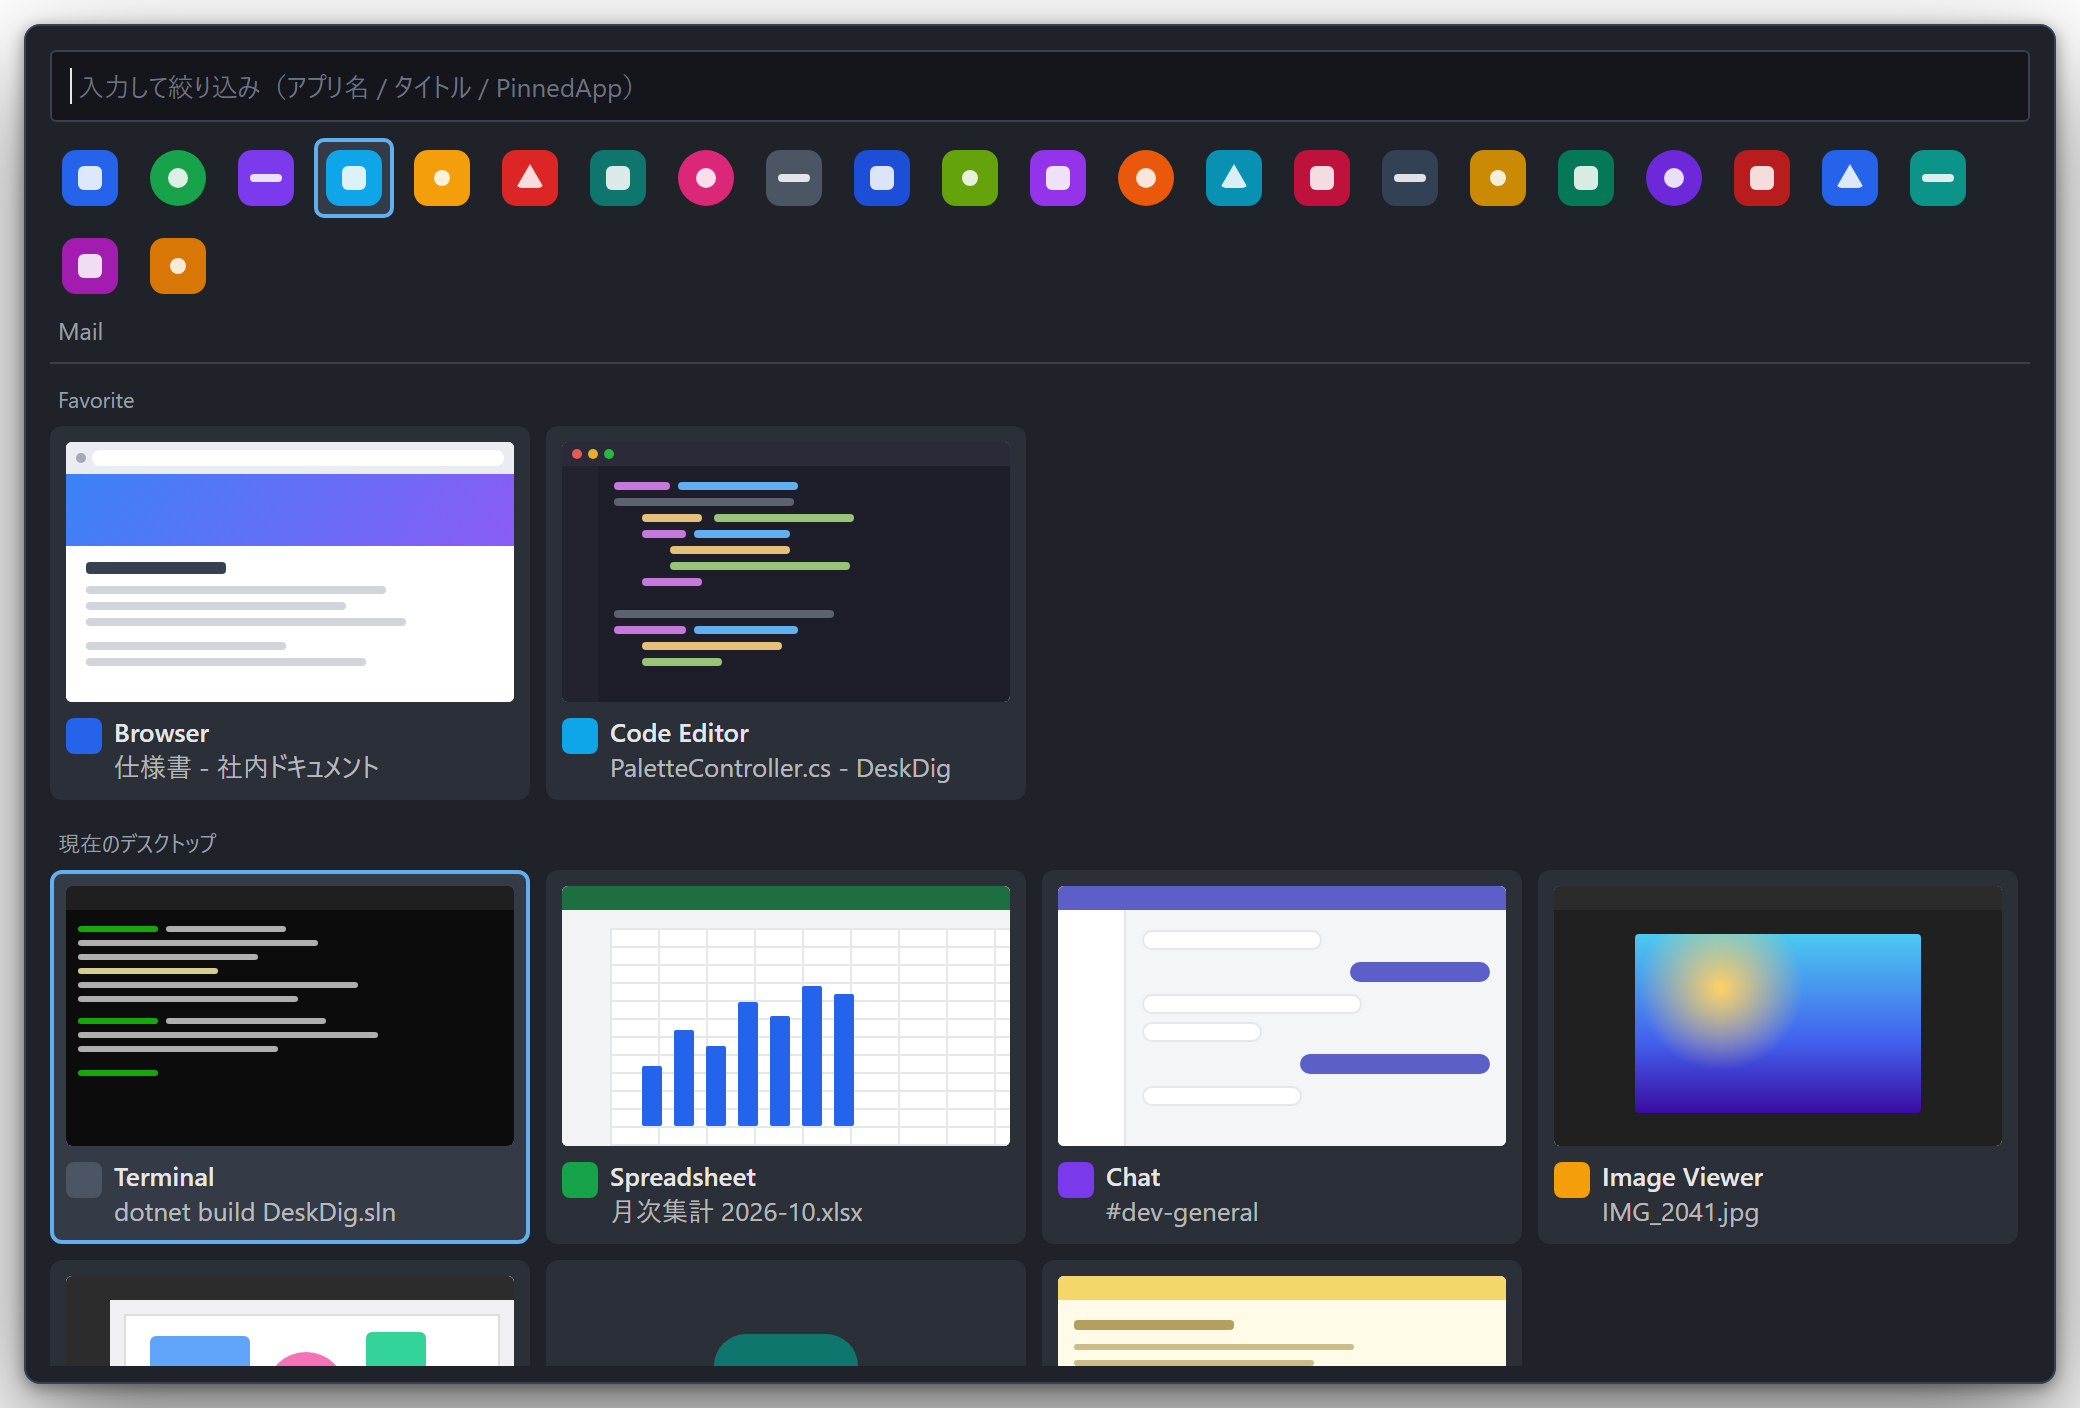
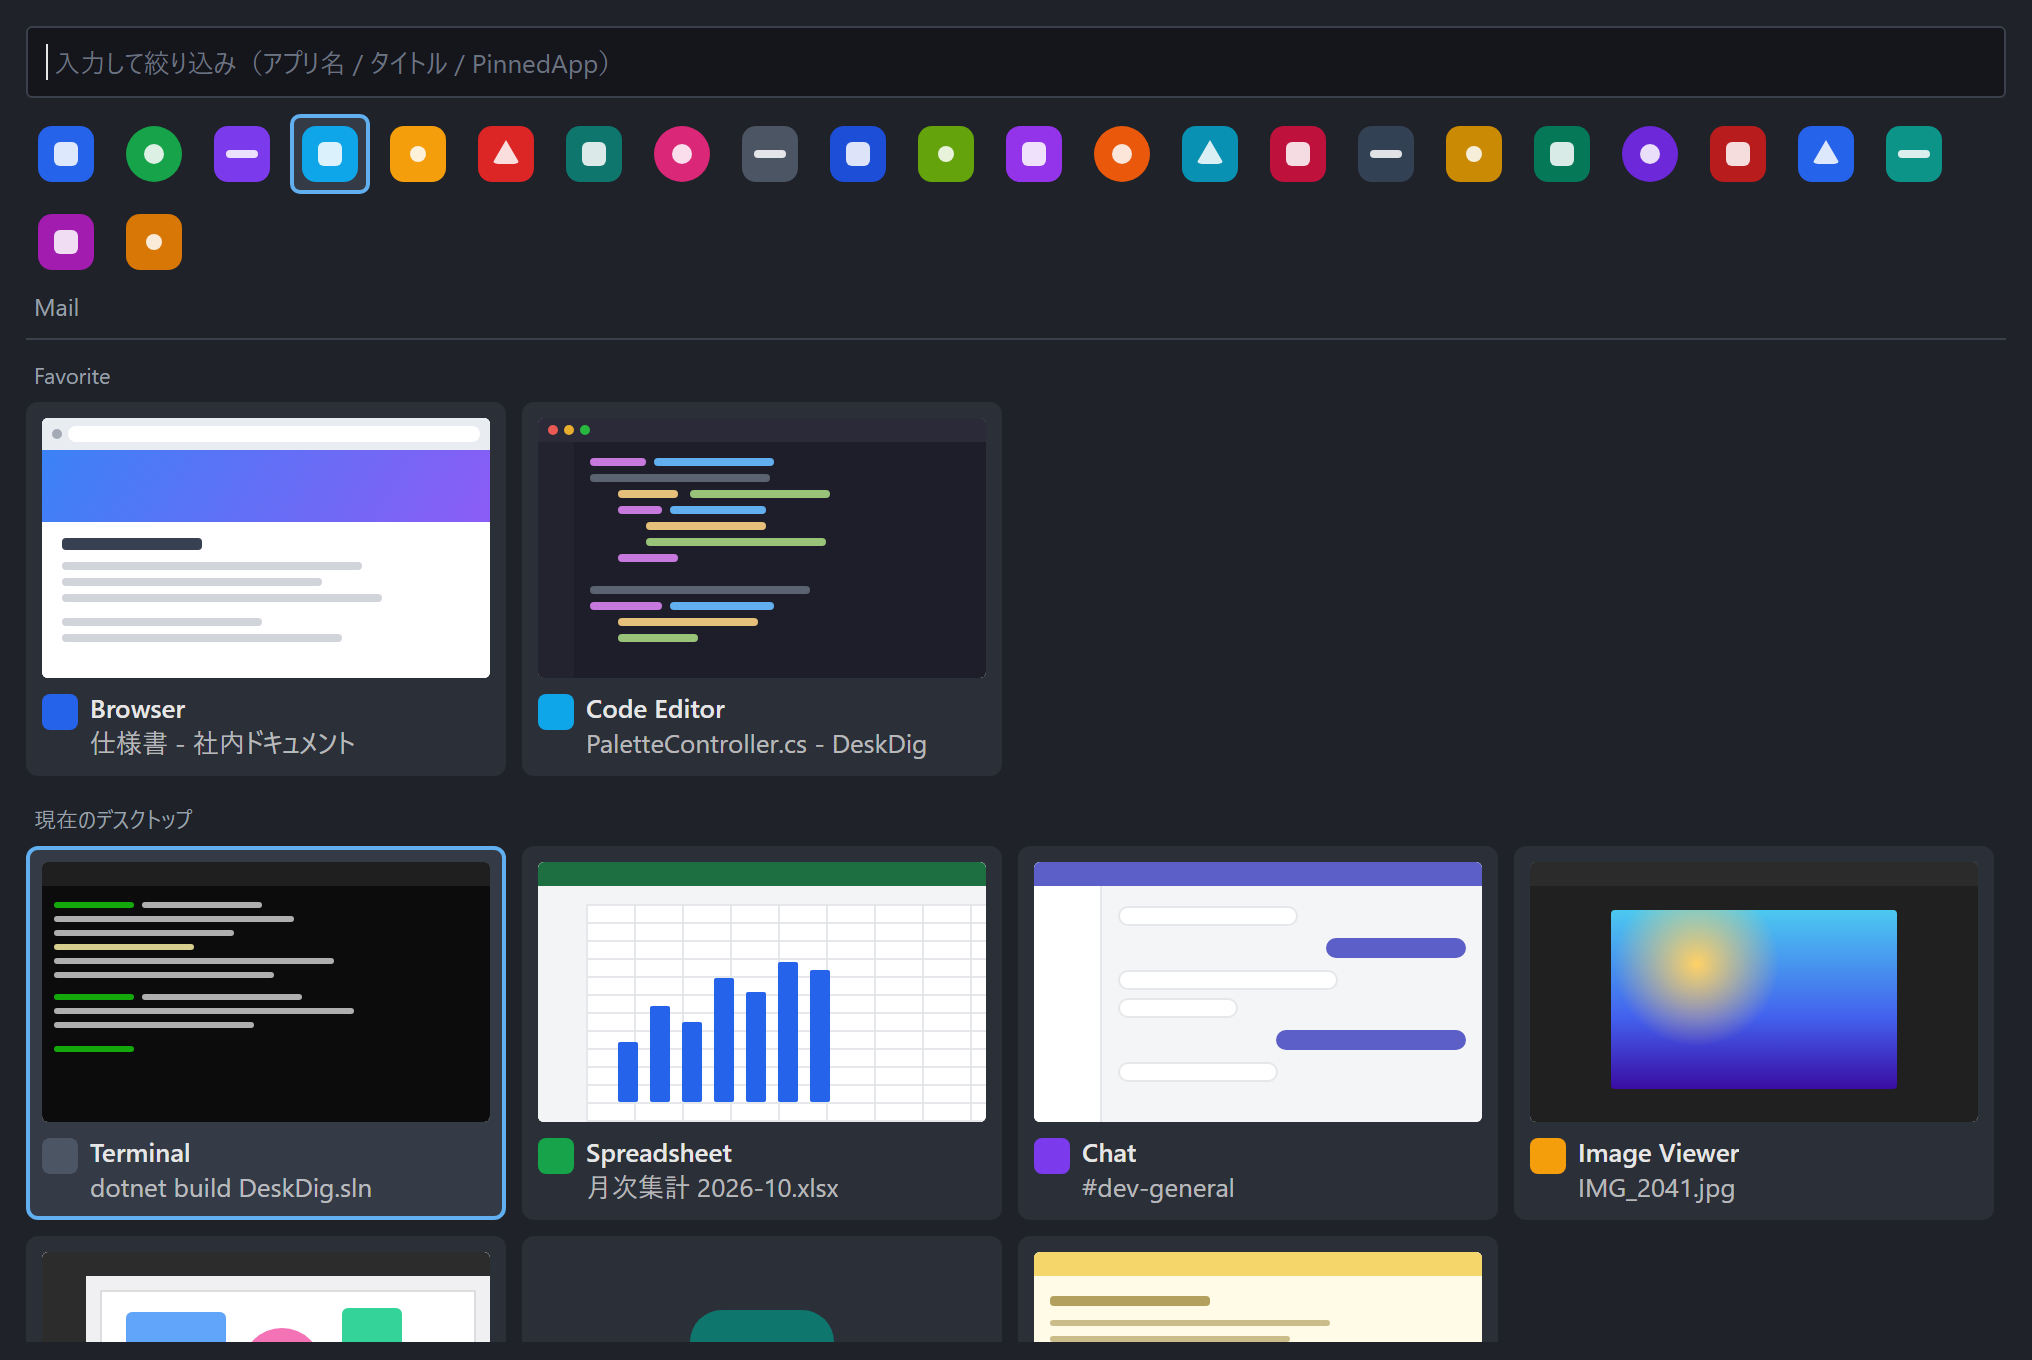
site: Palette モック画像を余白なしの等倍で撮り直す

diff --git a/site/index.html b/site/index.html
@@ -150,7 +150,7 @@
   <div class="wrap">
     <h2><small>How it looks</small>パレットの構成</h2>
     <figure style="margin:0">
-      <img class="shot" src="assets/palette-mock.png" width="1040" height="704"
+      <img class="shot" src="assets/palette-mock.png" width="1016" height="680"
            alt="DeskDig のパレット。上段にタスクバー固定アプリのアイコン、その下に Favorite、現在のデスクトップ、他のデスクトップの順でウインドウのサムネイルが並ぶ"
            loading="eager" decoding="async">
       <figcaption>上段にタスクバー固定アプリ、下段に開いているウインドウのサムネイル。お気に入りは最上段に固定され、最近このツールから選んだものほど前に並びます。画像は実物と同じ寸法・配色で再現したモックで、ウインドウの中身はダミーです。</figcaption>

diff --git a/site/mock/palette.html b/site/mock/palette.html
@@ -35,8 +35,8 @@
   .headline span { display: block; margin-top: 10px; font-size: 17px; color: #c9cdd4; text-shadow: 0 1px 8px rgba(0,0,0,.5); }
 
   /* #palette-only: Palette 単体を等倍で撮る（紹介ページの図版用） */
-  body.palette-only .desktop { width: 1040px; height: 704px; background: transparent; }
-  body.palette-only .desktop .palette { left: 12px; top: 12px; transform: none; }
+  body.palette-only .desktop { width: 1016px; height: 680px; background: var(--bg); }
+  body.palette-only .desktop .palette { left: 0; top: 0; transform: none; border-radius: 0; box-shadow: none; border-color: var(--bg); }
   body.palette-only .cursor, body.palette-only .headline, body.palette-only .shade { display: none; }
 
   /* ===== Palette 本体（XAML と同寸） ===== */
